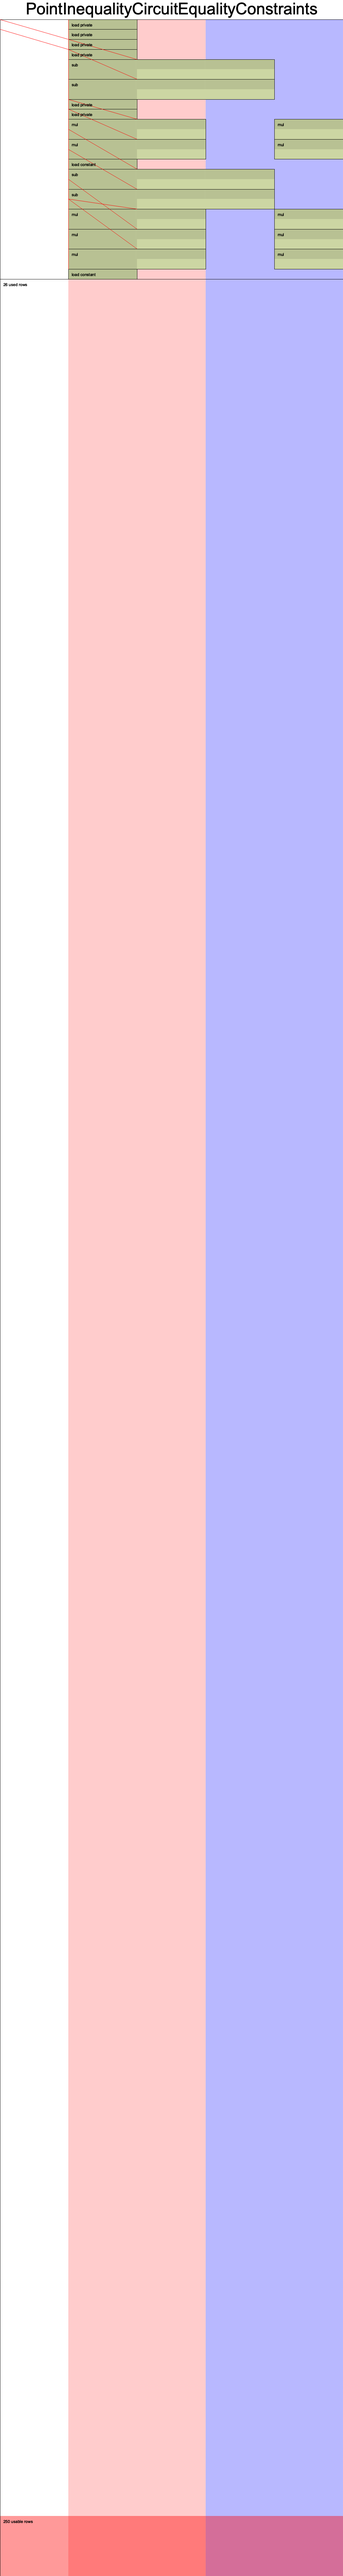
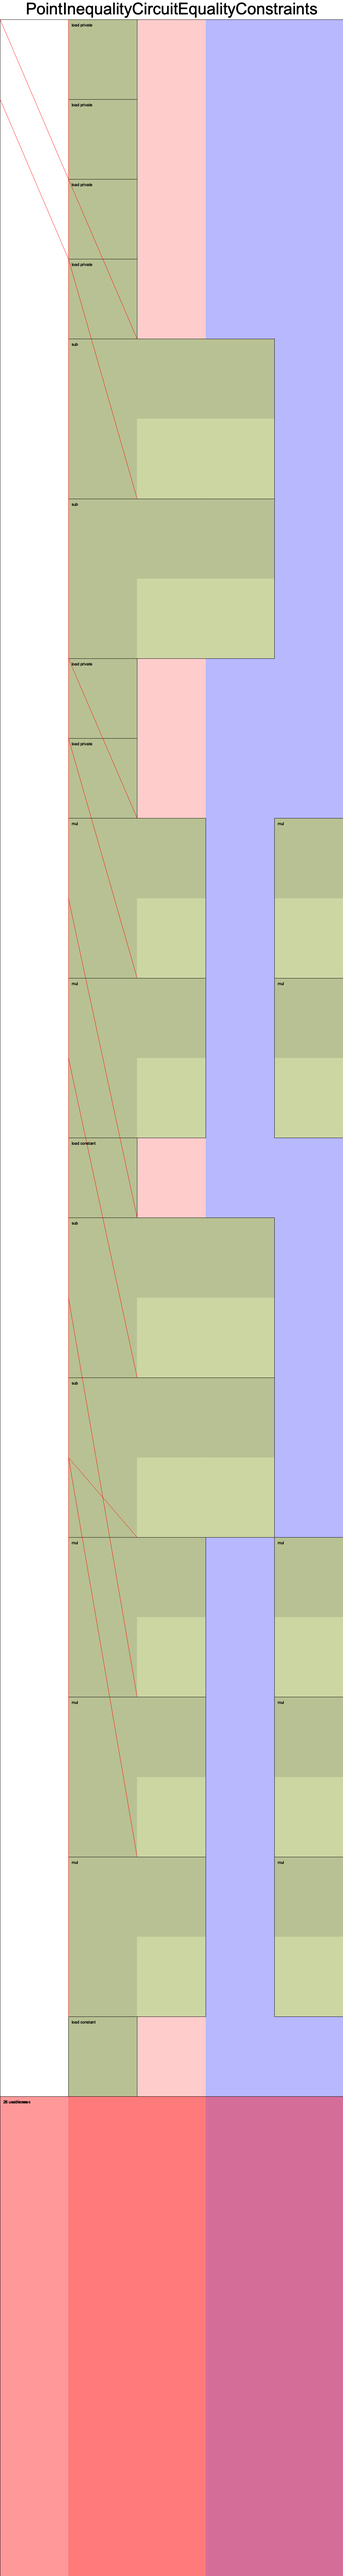
feat: all dev tools and outputs added

diff --git a/halo2_proofs/examples/point-inequality.rs b/halo2_proofs/examples/point-inequality.rs
@@ -474,9 +474,11 @@ impl Circuit<Fp> for PointInequalityCircuit<Fp> {
 }
 
 fn main() {
+    use halo2_proofs::dev::CircuitCost;
     use halo2_proofs::dev::CircuitGates;
     use halo2_proofs::dev::CircuitLayout;
     use halo2_proofs::dev::MockProver;
+    use pasta_curves::Eq;
     use plotters::prelude::*;
 
     let k = 5;
@@ -576,4 +578,9 @@ fn main() {
     // Print circuit gate structure using CircuitGates
     let gates = CircuitGates::collect::<Fp, PointInequalityCircuit<Fp>>();
     println!("\nCircuit Gates:\n{}", gates);
+
+    // Print cost of the circuit
+    let cost = CircuitCost::<Eq, PointInequalityCircuit<Fp>>::measure(k as u32, &circuit);
+    //println!("{:#?}", cost);
+    println!("Proof size (1 instance): {:?}", cost.proof_size(1));
 }
